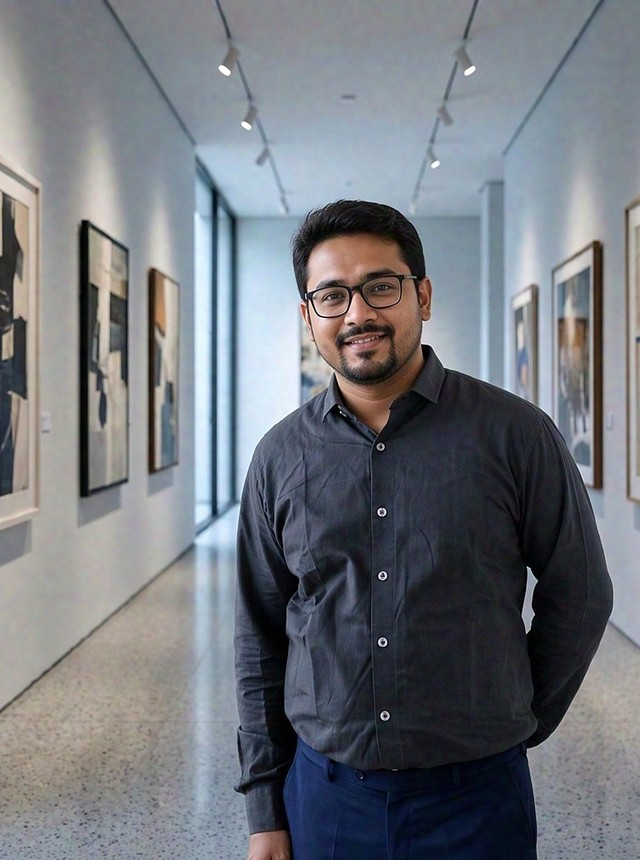
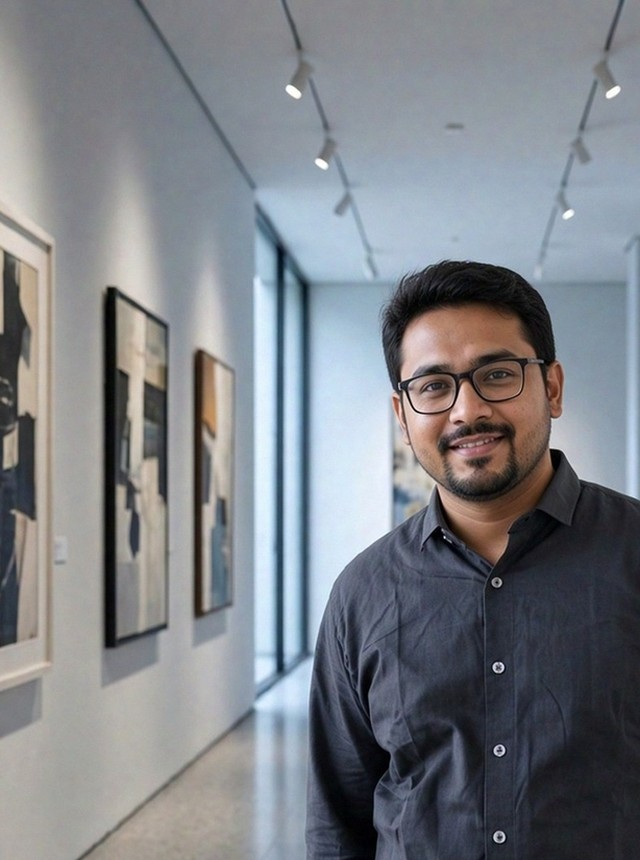
Scrub Gemini BR star from Rohan gallery DP (desk133)
Aggressive crop-only removal of bottom-right Gemini watermark;
rebump cache to app.js?v=desk133 and Rohan ?v=6. Flutter synced.

diff --git a/js/app.js b/js/app.js
@@ -813,7 +813,7 @@ const MENTORS = [
   { name: "Vikram Singh", role: "Price action coach", tag: "Swing trading", img: "https://images.unsplash.com/photo-1506794778202-cad84cf45f1d?auto=format&fit=crop&w=640&h=860&q=80" },
   { name: "Ananya Rao", role: "Long-term investor", tag: "Portfolio", img: "https://images.unsplash.com/photo-1573496359142-b8d87734a5a2?auto=format&fit=crop&w=640&h=860&q=80" },
   { name: "Kabir Joshi", role: "Index options", tag: "Bank Nifty", img: "/img/instructors/kabir-joshi.jpg?v=9" },
-  { name: "Rohan Desai", role: "Fund researcher", tag: "Mutual funds", img: "/img/instructors/rohan-desai.jpg?v=5" },
+  { name: "Rohan Desai", role: "Fund researcher", tag: "Mutual funds", img: "/img/instructors/rohan-desai.jpg?v=6" },
   { name: "Priya Nair", role: "Asset allocation", tag: "SIP lab", img: "https://images.unsplash.com/photo-1580489944761-15a19d654956?auto=format&fit=crop&w=640&h=860&q=80" },
   { name: "Meera Iyer", role: "Options coach", tag: "Defined risk", img: "https://images.unsplash.com/photo-1438761681033-6461ffad8d80?auto=format&fit=crop&w=640&h=860&q=80" }
 ];
@@ -4918,6 +4918,7 @@ function traderIcon(kind) {
 /* cache-bust desk130: Kabir Joshi DP laptop khaki studio vibe natural face /img/instructors/kabir-joshi.jpg?v=9 */
 /* cache-bust desk131: edge purge after CF poison on #83 (app.js?v=desk130 held pre-merge desk129; Kabir JPEG ?v=9 OK) /img/instructors/kabir-joshi.jpg?v=9 */
 /* cache-bust desk132: Rohan Desai DP gallery hallway user-ref vibe, no Gemini watermark /img/instructors/rohan-desai.jpg?v=5 */
+/* cache-bust desk133: Rohan Desai DP scrub Gemini BR star (crop-only) /img/instructors/rohan-desai.jpg?v=6 */
 function traderCardHTML(m, i, opts = {}) {
   const title = String(m.role || m.tag || "Mentor").trim();
   const cloneAttrs = opts.clone ? ' tabindex="-1" aria-hidden="true"' : "";

diff --git a/account.html b/account.html
@@ -17,7 +17,7 @@
   <div id="site-header"></div>
   <main id="accountRoot" class="ld-page"></main>
   <div id="site-footer"></div>
-  <script src="/js/app.js?v=desk132" defer></script>
+  <script src="/js/app.js?v=desk133" defer></script>
   <script src="/js/lms.js?v=cert2" defer></script>
 </body>
 </html>

diff --git a/learning.html b/learning.html
@@ -17,7 +17,7 @@
   <div id="site-header"></div>
   <main id="myLearning" class="ld-page"></main>
   <div id="site-footer"></div>
-  <script src="/js/app.js?v=desk132" defer></script>
+  <script src="/js/app.js?v=desk133" defer></script>
   <script src="/js/lms.js?v=cert2" defer></script>
 </body>
 </html>

diff --git a/course.html b/course.html
@@ -22,7 +22,7 @@
     </div>
   </main>
   <div id="site-footer"></div>
-  <script src="/js/app.js?v=desk132" defer></script>
+  <script src="/js/app.js?v=desk133" defer></script>
   <script src="/js/lms.js?v=cert2" defer></script>
   <script src="/js/drm.js?v=desk29" defer></script>
 </body>

diff --git a/contact.html b/contact.html
@@ -48,7 +48,7 @@
   </main>
   <div id="site-footer"></div>
   <script src="/js/help-faqs.js?v=faq1" defer></script>
-  <script src="/js/app.js?v=desk132" defer></script>
+  <script src="/js/app.js?v=desk133" defer></script>
   <script src="/js/lms.js" defer></script>
 </body>
 </html>

diff --git a/certificate.html b/certificate.html
@@ -19,7 +19,7 @@
     <div id="certRoot"></div>
   </main>
   <div id="site-footer"></div>
-  <script src="/js/app.js?v=desk132" defer></script>
+  <script src="/js/app.js?v=desk133" defer></script>
   <script src="/js/lms.js?v=cert2" defer></script>
 </body>
 </html>

diff --git a/control.html b/control.html
@@ -253,7 +253,7 @@
         loading = true;
         busy(true);
         var files = [
-          "/js/app.js?v=desk132",
+          "/js/app.js?v=desk133",
           "/js/lms.js",
           "/js/admin-core.js?v=desk8",
           "/js/admin.js?v=drm5",

diff --git a/index.html b/index.html
@@ -415,7 +415,7 @@
     </section>
   </main>
   <div id="site-footer"></div>
-  <script src="/js/app.js?v=desk132" defer></script>
+  <script src="/js/app.js?v=desk133" defer></script>
   <script src="/js/lms.js?v=cert2" defer></script>
 </body>
 </html>

diff --git a/live-room.html b/live-room.html
@@ -22,7 +22,7 @@
 </head>
 <body class="live-room-page">
   <div id="liveRoom"></div>
-  <script src="/js/app.js?v=desk132" defer></script>
+  <script src="/js/app.js?v=desk133" defer></script>
   <script src="/js/lms.js" defer></script>
 </body>
 </html>

diff --git a/nifty-options.html b/nifty-options.html
@@ -44,7 +44,7 @@
     </section>
   </main>
   <div id="site-footer"></div>
-  <script src="/js/app.js?v=desk132" defer></script>
+  <script src="/js/app.js?v=desk133" defer></script>
   <script src="/js/lms.js?v=cert2" defer></script>
 </body>
 </html>

diff --git a/option-trading-course.html b/option-trading-course.html
@@ -44,7 +44,7 @@
     </section>
   </main>
   <div id="site-footer"></div>
-  <script src="/js/app.js?v=desk132" defer></script>
+  <script src="/js/app.js?v=desk133" defer></script>
   <script src="/js/lms.js?v=cert2" defer></script>
 </body>
 </html>

diff --git a/share-market-course-in-hindi.html b/share-market-course-in-hindi.html
@@ -42,7 +42,7 @@
     </section>
   </main>
   <div id="site-footer"></div>
-  <script src="/js/app.js?v=desk132" defer></script>
+  <script src="/js/app.js?v=desk133" defer></script>
   <script src="/js/lms.js?v=cert2" defer></script>
 </body>
 </html>
